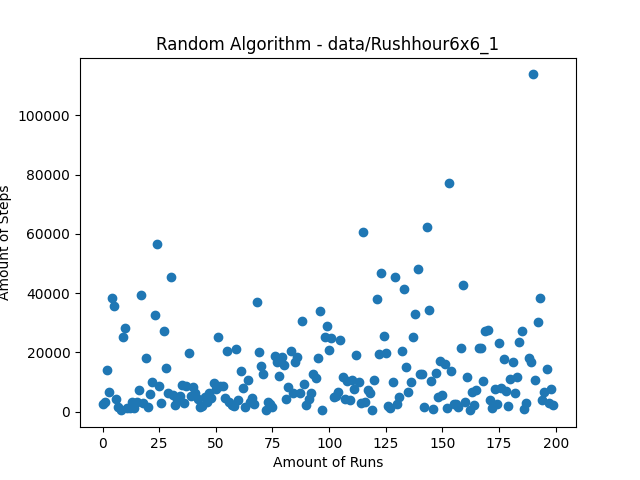
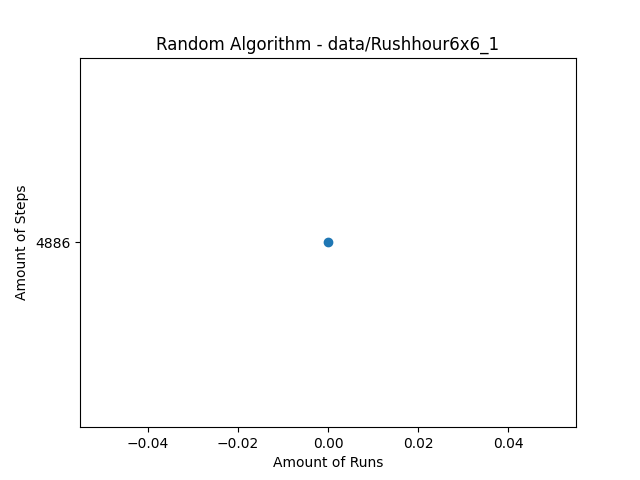
a-star and updated argv command line

diff --git a/rushhour.py b/rushhour.py
@@ -2,7 +2,7 @@ from code.classes.grid import Grid
 import code.algorithms.random as random_alg
 import code.algorithms.breadth_1 as breadth_1
 import code.algorithms.a_star as a_star
-# import code.visualisation.visualisation as visual
+import code.visualisation.visualisation as visual
 import argparse
 import time
 import re
@@ -10,58 +10,57 @@ import re
 def main():
     parser = argparse.ArgumentParser()
     parser.add_argument('csvfile', default="data/Rushhour6x6_1.csv", help="Add game csv path here")
+    parser.add_argument('algoritme', default="random.py", help="Add algoritme here")
     args = parser.parse_args()
 
     # get grid size from file name
     size = int(re.findall(r'[0-9]+', f"{args.csvfile}")[0])
+
+    # create grid object
+    grid_object = Grid(size)
     
-    # run code x times
-    total_iterations = 1
+    # load cars on grid
+    grid_object.load_vehicles(args.csvfile)
+    
+    if args.algoritme == 'random' or args.algoritme == 'r':
+        # run code x times
+        total_iterations = 1
 
-    # initialize list to add random solutions
-    data = []
+        # initialize list to add random solutions
+        data = []
 
-    for _ in range(total_iterations):
-        # create grid object
-        grid_object = Grid(size)
-        # load cars on grid
-        grid_object.load_vehicles(args.csvfile)
-
-        #-------------------------------show visual of starting grid-------------------------------#
-        # grid_object.visualize_grid()
-        # run random algorithm
-        data.append([random_alg.random_solver(grid_object)])
-        #random_alg.random_solver(grid_object)
-        # run breadth first
-        #breadth_1.breadth_first_search(grid_object)
-        #a_star.a_star(grid_object)
-    # visualising random
-    visual.outputCsv(workload=args.csvfile, data=data)
-    visual.scatterPlot(workload=args.csvfile, data=data)
-    # run breadth first algorithm
-    # breadth_first.breadth_first_solver(grid_object)
-
-
-        #-----------------------------------run random algorithm-----------------------------------#
-        # random_solution = random_alg.random_solver(grid_object)
-        # add solution to data list
-        # data.append(random_solution)
-
-        #--------------------------------plot random solutions data--------------------------------#
-        # visual.outputCsv(workload=args.csvfile, data=data)
-        # visual.scatterPlot(workload=args.csvfile, data=data)
-
-
-        #-----------------------------------run a star algorithm-----------------------------------#
-        # a_star.a_star(grid_object)
-
+        for _ in range(total_iterations):
         
-        #-------------------------------run breadth first algorithm--------------------------------#
-        # start = time.time()
-        # breadth_1.breadth_first_search(grid_object)
-        # end = time.time()
-        # print(f"Breath first solver took {end - start} seconds\n")
+            # create grid object
+            grid_object = Grid(size)
+            
+            # load cars on grid
+            grid_object.load_vehicles(args.csvfile)
 
+            #-----------------------------------run random algorithm-----------------------------------#
+            random_solution = random_alg.random_solver(grid_object)
+            print(random_solution)
+
+            #add solution to data list
+            data.append(random_solution)
+
+            #--------------------------------plot random solutions data--------------------------------#
+            visual.outputCsv(workload=args.csvfile, data=data)
+            visual.scatterPlot(workload=args.csvfile, data=data)
+    
+    if args.algoritme == 'breadth-first' or args.algoritme == 'b':
+        #-------------------------------run breadth first algorithm--------------------------------#
+        start = time.time()
+        breadth_1.breadth_first_search(grid_object)
+        end = time.time()
+        print(f"Breath first solver took {end - start} seconds\n")
+    
+    if args.algoritme == 'a*' or args.algoritme == 'a':
+        #-----------------------------------run a star algorithm-----------------------------------#
+        start = time.time()
+        a_star.a_star(grid_object)
+        end = time.time()
+        print(f"A-star solver took {end - start} seconds\n")
 
 if __name__ == '__main__':
 

diff --git a/code/algorithms/breadth_1.py b/code/algorithms/breadth_1.py
@@ -32,25 +32,15 @@ def breadth_first_search(grid_object):
             if created_tuple not in visited:
                 # add child to visited dict
                 visited[created_tuple] = node
-<<<<<<< HEAD
-                #print(child.visualize_grid())
-=======
                 # print(child.visualize_grid())
->>>>>>> abca6e7f1640006529305000c7e352b82af59d68
                 q.put(child)
 
                 if child.won():
                     path = find_path(child, visited, grid_object)
-<<<<<<< HEAD
-                    #print(len(path))
-                    #child.visualize_grid()
-                    #print()
-=======
                     print(len(path))
                     # child.visualize_grid()
                     # print()
                     # print(q.qsize())
->>>>>>> abca6e7f1640006529305000c7e352b82af59d68
                     return
         # print queue
         # if q.qsize() % 1000 == 0:

diff --git a/code/algorithms/a_star.py b/code/algorithms/a_star.py
@@ -44,8 +44,9 @@ def a_star(grid_object):
                 if child.won():
                     path = find_path(child, visited, start_grid)
                     path_lenght = len(path)
-                    print(path_lenght)
                     best_lenght.add(path_lenght)
+                    print(path_lenght)
+                    return
                     # child.visualize_grid()
                     
                 child_list.append(child)
